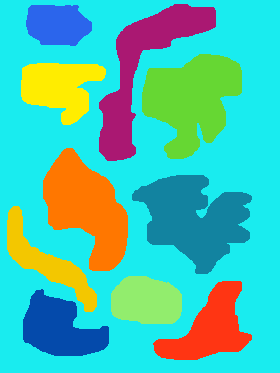
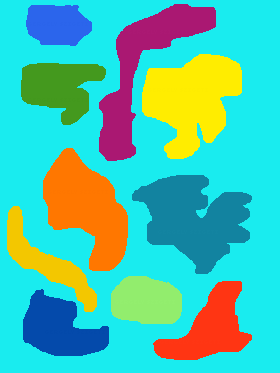
swapped/changed colors of two islands
+ removed trailing spaces (wanted to do with initial commit)

Changed region(s): [[0.4857, 0.1475, 0.8857, 0.4424], [0.0571, 0.1475, 0.4, 0.3539]]

diff --git a/algorithms.py b/algorithms.py
@@ -14,7 +14,7 @@ recursion_level = 0
 def paint( image_colormap, x, y, colorcode, colorvectors ):
     global recursion_level
     recursion_level += 1
-    # for the sake of simplicity, no 0<=x<w and 0<=y<h check as water fills the borders 
+    # for the sake of simplicity, no 0<=x<w and 0<=y<h check as water fills the borders
     if image_colormap[y,x] == utils.black_colorcode:
         image_colormap[y,x] = colorcode
         # let's count how many pixels we have in this island!
@@ -46,7 +46,7 @@ root_information = set()
 # helper functions for parallel painting
 def increasing_value_islands( image_colormap ):
     "change island pixels to increasing values, sea pixels to one big number"
-    # lets make an image_colormap sized array with increasing values only (0 <= v < width x height) 
+    # lets make an image_colormap sized array with increasing values only (0 <= v < width x height)
     increasing_values = np.arange(image_colormap.size).reshape(image_colormap.shape)
     # lets make a kind of mask map, island points are True (1), sea points are False (0)
     island_map = np.logical_not(image_colormap)
@@ -56,7 +56,7 @@ def increasing_value_islands( image_colormap ):
     # now we make a mix of islands with increasing numbers and sea pixels as "huge numbers"
     # (the huge number is actually width x height, greater than any value in increasing_values)
     huge_number = image_colormap.size   # short for width x height
-    return increasing_values * island_map + huge_number * sea_map 
+    return increasing_values * island_map + huge_number * sea_map
 
 # retrieve neighbor value at x,y if applicable (applicable within map and in current area only)
 def neighbor( image_map, x, y, current_area_x, current_area_y, area_size):
@@ -79,7 +79,7 @@ def find_deepest_root( image_map, x, y ):
             != image_map[y,x] ):
         image_map[y,x] = direct_root
         root_information.add(direct_root)
-    
+
     # note, image_map is mutable, we don't need to return anything
 
 # parallel painting algorithm
@@ -92,11 +92,11 @@ def paint_parallel( image_colormap, colorvectors ):
 
     # init main area loop (one step is one frame in output gif, let me call one step as one round)
     area_size = 2
-    h, w = image_increasing_map.shape    
-    huge_number = sea_code = image_increasing_map.size # sometimes sea_code says more, 
+    h, w = image_increasing_map.shape
+    huge_number = sea_code = image_increasing_map.size # sometimes sea_code says more,
                                                        # sometimes huge_number
     while area_size//2 <= w or area_size//2 <= h:
-   
+
         # First part in each area-stretching round:
         # modify roots according to lower neighbors in area
         # Note: looks like a O(n2) part in a O(log2(n)) main loop, however,
@@ -106,7 +106,7 @@ def paint_parallel( image_colormap, colorvectors ):
 
                 current_xy_value = image_increasing_map[y,x]
 
-                if current_xy_value != sea_code: 
+                if current_xy_value != sea_code:
                     # note, this part is not written in numpy/python fashion,
                     # it more resembles the CUDA/C++ way
                     area_x, area_y = x // area_size, y // area_size
@@ -114,10 +114,10 @@ def paint_parallel( image_colormap, colorvectors ):
                       min( neighbor( image_increasing_map, x - 1, y - 1, area_x, area_y, area_size ),
                       min( neighbor( image_increasing_map,     x, y - 1, area_x, area_y, area_size ),
                       min( neighbor( image_increasing_map, x + 1, y - 1, area_x, area_y, area_size ),
-                      
+
                       min( neighbor( image_increasing_map, x - 1,     y, area_x, area_y, area_size ),
                       min( neighbor( image_increasing_map, x + 1,     y, area_x, area_y, area_size ),
-                      
+
                       min( neighbor( image_increasing_map, x - 1, y + 1, area_x, area_y, area_size ),
                       min( neighbor( image_increasing_map,     x, y + 1, area_x, area_y, area_size ),
                       min( neighbor( image_increasing_map, x + 1, y + 1, area_x, area_y, area_size ),
@@ -129,13 +129,13 @@ def paint_parallel( image_colormap, colorvectors ):
                     if neighbor_min < current_xy_value:
                         image_increasing_map.reshape(-1)[current_xy_value] = neighbor_min
                                                    # set direct root to the value of lower neighbor
-                
+
         # Second part in each round, excluding the first one:
         # replace all values with their deepest roots
         # In the first round, this is automatically done above as the area is too small,
         # with only 4 island values at most; if there are more than one island values,
-        # one of them is always the root value for the other one(s) 
-        
+        # one of them is always the root value for the other one(s)
+
         root_information.clear()
         if area_size > 2:
             for y in range(h):
@@ -152,17 +152,17 @@ def paint_parallel( image_colormap, colorvectors ):
                         # ( actually all pixels are computed in parallel if you have a GPU from
                         #   somewhere in the distant future with at least w*h = 282 x 373 = 104,440
                         #   small processing units )
-	 
+
         # record what is happening, in a gif video
         # coloring? let's modulo increasing values for mapping onto our color vector list
         # Some islands will have the same color, but we can not do it much better
         # with just a few colors
         image_colormap = utils.convert_increasing_map_to_colormap(image_increasing_map, colorvectors)
         utils.render_gif_frame( image_colormap, colorvectors )
-        
+
         # print some status, we are alive
         print('.', end='', flush=True)
- 
+
     # let's return the result map, for statistics, e.g. the number of islands and their values
     # (the other output, the gif animation is already handled above)
     return image_increasing_map

diff --git a/utils.py b/utils.py
@@ -7,9 +7,9 @@ np = iio.np
 # a kind of film for recording gif videos
 recorded_images = []
 
-def load_island_image():
-    image = iio.imread('pictures/color_islands.png')
-    image = image[...,:3] # we don't need the alpha channel 
+def load_island_image(file_name = 'pictures/color_islands.png'):
+    image = iio.imread(file_name)
+    if image.shape[2] == 4: image = image[...,:3] # we don't need the alpha channel
     return image
 
 # helper consts for readability
@@ -19,7 +19,7 @@ black_colorcode = 0
 def make_black_islands_from_color_ones( image ):
     image_black_islands = image.copy()
     # trick: the very first pixel on the top left corner is surely water
-    # set all pixels black (0,0,0) that is not water pixel 
+    # set all pixels black (0,0,0) that is not water pixel
     image_black_islands[(image != image[0,0]).all(-1)] = black_colorvector
     return image_black_islands
 
@@ -59,9 +59,9 @@ def convert_image_to_colormap_slow( image, colorvectors ):
 def convert_image_to_colormap( image, colorvectors):
     "convert image RGB vectors to simple integer numbers according to given color vectors"
     # trick: we can make 'hashes', or at least unique numbers for each pixel simultaneously
-    # using functions like sum() or prod() on the last axis (axis = -1 or simply -1) 
+    # using functions like sum() or prod() on the last axis (axis = -1 or simply -1)
     pixel_hashlist = (image.sum(-1) + image.prod(-1)).ravel()
-    
+
     # we also make the same hashes for the colors in our color table
     colorvector_hashlist = colorvectors.sum(-1) + colorvectors.prod(-1)
     # then we can give each hash a number between 0 and the number of colors (hashes)
@@ -69,7 +69,7 @@ def convert_image_to_colormap( image, colorvectors):
     colorvector_hashmap = {}
     for i, colorvector_hash in enumerate(colorvector_hashlist):
         colorvector_hashmap[colorvector_hash] = i
-    
+
     # now we can replace each pixel hash on the image to simple ordinal numbers
     image_colormap = [ colorvector_hashmap[pixel_hash] for pixel_hash in pixel_hashlist]
     return np.array(image_colormap).reshape(image.shape[0],image.shape[1]).astype(np.uint8)
@@ -79,9 +79,9 @@ def convert_colormap_to_image( image_colormap, colorvectors ):
     # the other way around is much simpler
     return colorvectors[image_colormap]
 
-# helper for parallel painting 
+# helper for parallel painting
 def convert_increasing_map_to_colormap( image_increasing_map, colorvectors ):
-    
+
     image_colormap = np.copy( image_increasing_map )
     island_color_count = len(colorvectors) - 2
     huge_number = image_increasing_map.size
@@ -107,4 +107,3 @@ def save_gif(filename, images = recorded_images, fps = 50):
     print(f'Saving {filename}, it can take a while')
     imageio.mimwrite(filename, images, fps = fps, format = '.gif')
     print('Done')
-

diff --git a/paint.py b/paint.py
@@ -1,7 +1,7 @@
 import algorithms
 import utils
 
-# I played around a bit on trycolors.com (fabolous site, try it!)
+# I played around a bit on trycolors.com (great site, worth to try)
 color_dict = { # black islands
                'black'      : '000000',
                # water color
@@ -9,8 +9,8 @@ color_dict = { # black islands
                # island colors
                'ocean blue' : '2b65ec',
                'red violet' : 'aa1872',
+               'green'      : '44991e',
                'yellow'     : 'ffed00',
-               'green'      : '66d733',
                'orange'     : 'ff7700',
                'blue'       : '1283a0',
                'supernova'  : 'f3c700',
@@ -21,13 +21,13 @@ color_dict = { # black islands
              }
 
 colorvec_dict = utils.make_colorvectors_from_color_dict( color_dict )
-colorvectors = utils.get_colorvectors_from_colorvector_dict( colorvec_dict ) 
+colorvectors = utils.get_colorvectors_from_colorvector_dict( colorvec_dict )
 colorcode_dict = utils.make_colorcodes_from_color_dict( color_dict )
 
 im_islands = utils.load_island_image()
 print(f'Image of color islands loaded, shape: {im_islands.shape}')
 im_black_islands = utils.make_black_islands_from_color_ones( im_islands )
-im_black_islands_colormap = utils.convert_image_to_colormap(im_black_islands, colorvectors) 
+im_black_islands_colormap = utils.convert_image_to_colormap(im_black_islands, colorvectors)
 
 # take the upper right corner only with 2 islands, as the serial
 # painting process is really slow even for one island
@@ -35,11 +35,9 @@ im_black_islands_colormap = utils.convert_image_to_colormap(im_black_islands, co
 
 im_black_islands_colormap_urc = im_black_islands_colormap[:165,95:248]
 
-
 '''
 level = 1
 p_count = 0
-
 
 import sys
 sys.setrecursionlimit(8000)
@@ -58,7 +56,7 @@ print('\nNumber of points:', p_count)
 utils.save_gif('island_paint_2nd_of_2.gif.firstsep.gif')
 '''
 im_black_islands_colormap_all = utils.np.copy(im_black_islands_colormap)
-print("painting all islands in parallel, also recording the process as a gif video") 
+print("painting all islands in parallel, also recording the process as a gif video")
 final_colormap = algorithms.paint_parallel( im_black_islands_colormap_all, colorvectors )
 print("\nDone")
 print(algorithms.root_information)
